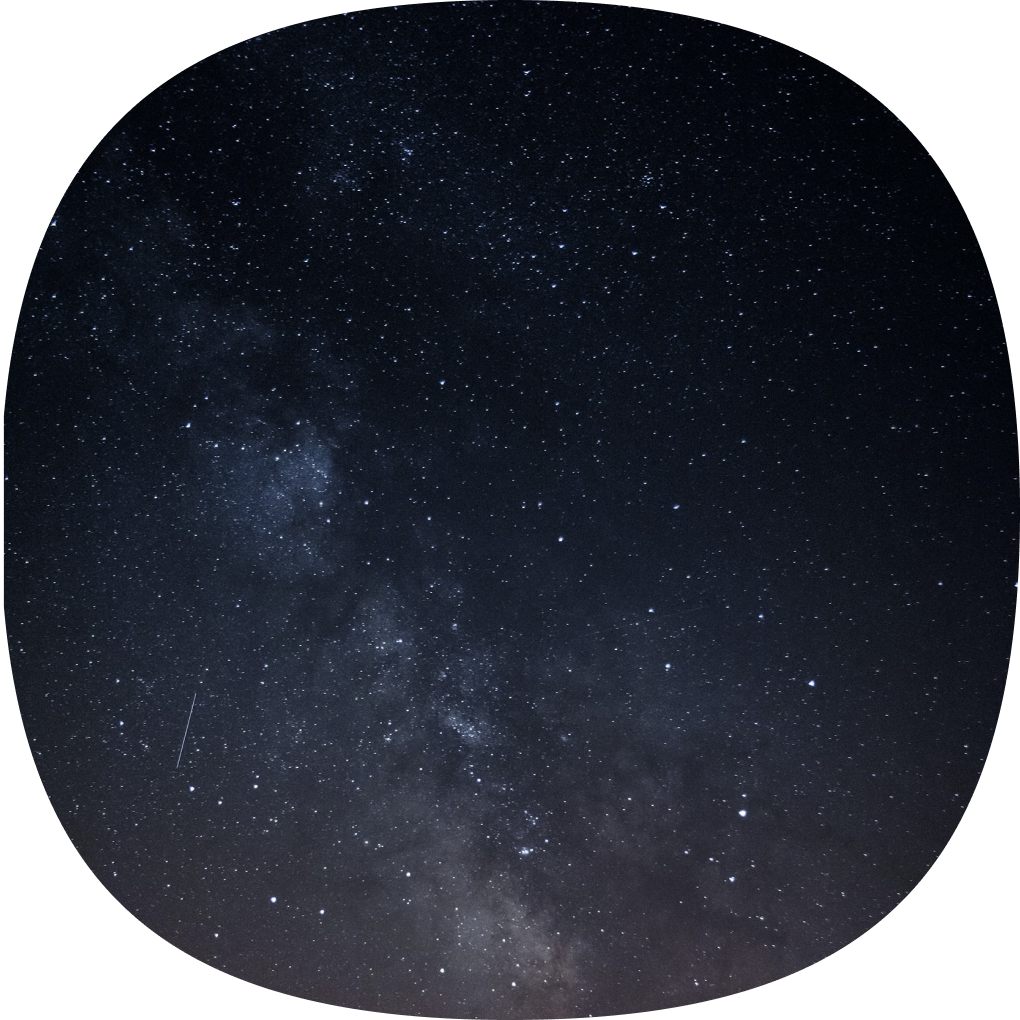
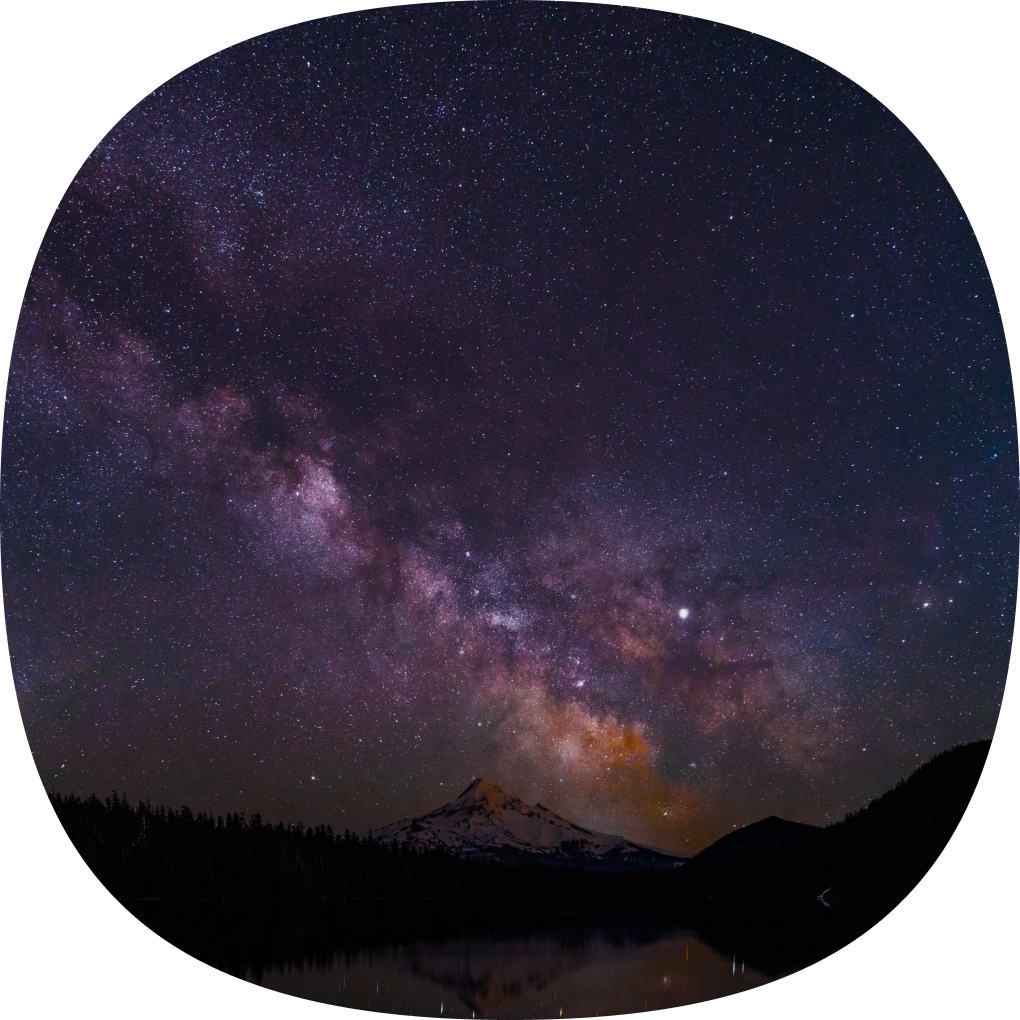
New Graphics to make UX much more pleasurable!

diff --git a/src/views/Tab2Page.vue b/src/views/Tab2Page.vue
@@ -1,10 +1,10 @@
 <template>
 <ion-page>
-    <ion-content :fullscreen="true" class="background">
+    <ion-content :fullscreen="true" >
 
-        <img style="padding-top: 15%; height: auto; width: 70%; margin-left: auto; margin-right: auto; display: block;" :src="natureEllipse">
+        <img style="padding-top: 4rem; height: auto; width: 70%; max-width: 400px; margin-left: auto; margin-right: auto; display: block;" :src="natureEllipse">
 
-        <p style="text-align: center;padding: 0px 18px 0px; margin-top: 7%; margin-bottom: 0; transform-origin: left center; align-items: flex-end; min-width: 100%; font-size: 21px; font-weight: 400;">{{ natureText }}</p>
+        <p style="text-align: center;padding: 0px 18px 0px; margin-top: 2rem; margin-bottom: 0; transform-origin: left center; align-items: flex-end; min-width: 100%; font-size: 21px; font-weight: 400;">{{ natureText }}</p>
         <p style="text-align: center;padding: 0px 22px 0px; margin: 0; transform-origin: left center; align-items: flex-end; min-width: 100%; font-size: 24px; font-weight: 700;">АЛЕКСАНДР!</p>
 
         <ion-card style="margin-top: 9000px;">
@@ -61,6 +61,18 @@
   *{
     font-family: Montserrat !important;
   }
+  @media (prefers-color-scheme: light) {
+    ion-content {
+      --background: #fff url('../assets/abstract/relaxing-pinkbackground.jpg') no-repeat center center / cover;
+    }
+  }
+
+  @media (prefers-color-scheme: dark) {
+    ion-content {
+      --background: #000 url('../assets/abstract/black-and-noise-background.png') no-repeat center center / cover;
+    }
+  }
+  
 </style>
 
 <script lang="ts">
@@ -112,10 +124,10 @@ export default defineComponent({
           image_local = "page-dead.png"
         }else{
           const dayPeriod_list = {
-            morning: ["morning-ellipse.png"],
-            afternoon: ["afternoon-sky-ellipse.png", "day-city-ellipse.png"],
-            evening: [],
-            night: ["night-sky-1-ellipse.png", "night-view-ellipse.png", "night-houselife-ellipse.png"]
+            morning: ["morning-ellipse.png", "morning-mountains-ellipse.png", "morning-highview-ellipse.png", "morning-work-onbeach-ellipse.png", "swimming-morning-ellipse.png", "morning-forest-ellipse.png", "morning-bedsheet-ellipse.png", "morning-vibes-ellipse.png"],
+            afternoon: ["afternoon-sky-ellipse.png", "day-city-ellipse.png", "man-onrocks-waterfall-ellipse.png", "forest-afternoon-ellipse.png", "creative-office-afternoon-ellipse.png", "afternoon-citybridge-ellipse.png", "afternoon-beach-ellipse.png", "daytime-beach-ellipse.png"],
+            evening: ["evening-desert-mountains-ellipse.png", "evening-construction-ellipse.png", "evening-nature.png", "evening-newyork-ellipse.png", "evening-subway-ellipse.png", "evening-hotel-veranda-ellipse.png"],
+            night: ["night-sky-1-ellipse.png", "night-view-ellipse.png", "night-houselife-ellipse.png", "mountains-at-night-ellipse.png", "night-city-ellipse.png", "man-understone-atnight-ellipse.png", "aurora-night-ellipse.png", "night-greennature-ellipse.png", "night-hotelroom-ellipse.png"]
           }
           image_local = dayPeriod_list[dayPeriod][Math.floor(Math.random() * dayPeriod_list[dayPeriod].length)]
         }

diff --git a/src/router/index.ts b/src/router/index.ts
@@ -30,6 +30,10 @@ const routes: Array<RouteRecordRaw> = [
       {
         path: 'onboarding',
         component: () => import('@/views/AppOnboarding.vue')
+      },
+      {
+        path: 'sorry',
+        component: () => import('@/views/SplashSorry.vue')
       }
     ]
   }
